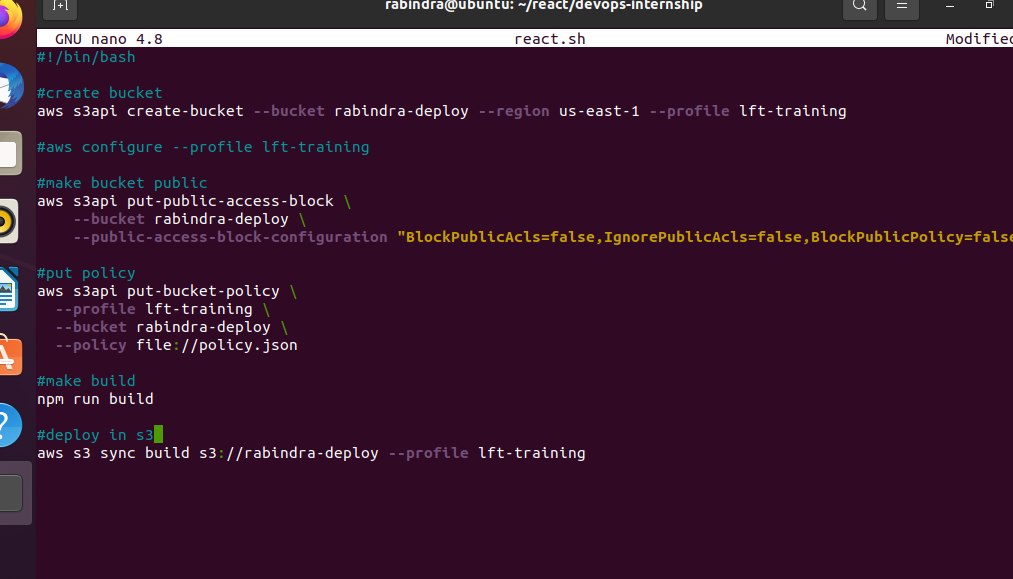
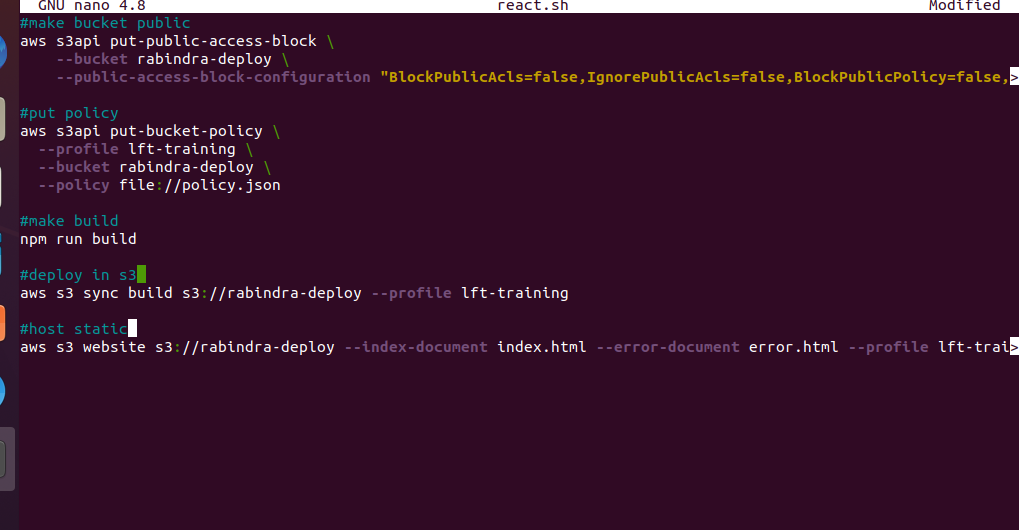
README

Changed region(s): [[0.0, 0.0, 1.0, 0.6943], [0.0, 0.6943, 0.3672, 0.9358], [0.3978, 0.7547, 0.5814, 0.8151]]

diff --git a/serverless-rabindra/5.CI/README.md b/serverless-rabindra/5.CI/README.md
@@ -92,7 +92,7 @@ aws s3 sync build s3://rabindra-deploy --profile lft-training
 #host static
 aws s3 website s3://rabindra-deploy --index-document index.html --error-document error.html
 ```
-![reactsh](https://user-images.githubusercontent.com/53372486/146342782-540c8a59-c597-4ff3-919e-9f673ef098a8.png)<br/>
+![reactsh](https://user-images.githubusercontent.com/53372486/146415185-94240c3c-4e7a-48c2-8a3b-08ca6a023b06.png)<br/>
 
 **Create policy json**<br/>
 ```
@@ -139,8 +139,13 @@ nano policy.json
 
 ![web](https://user-images.githubusercontent.com/53372486/146342844-3260471a-0f3f-41de-b5c3-7b3787ae3066.png)<br/>
 
+**Bucket website endpoint (http://rabindra-deploy.s3-website-us-east-1.amazonaws.com/)**<br/>
+
+![static host](https://user-images.githubusercontent.com/53372486/146414673-5b4b0ff5-220a-475b-9bbb-3164f85c276a.png)<br/>
+
 -----------------------------------------------------------------------------------------------------------------<br/>
 ### Integrate both these scripts with one of Jenkins, Github Actions, CircleCI or TravisCI
+
 
 
 
